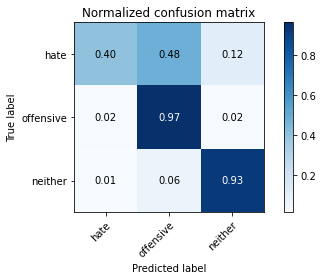
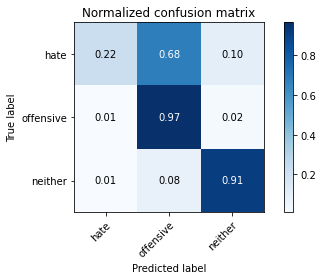
update model results

diff --git a/result.md b/result.md
@@ -1,19 +1,19 @@
 # Results for hate-speech-classification
 
 ## DistilBERT
-pretrained DistilBERT model trained for 4 epochs
+pretrained DistilBERT model trained for 5 epochs
 
 ![Confusion matrix_bert](images/distilbert.png)
 ![Confusion matrix_bert2](images/distilbert_norm.png)
     
-                precision    recall  f1-score   support
-        hate       	0.60      0.40      0.48       139
-    offensive      	0.95      0.97      0.96      1895
-     neither       	0.90      0.93      0.91       445
+                 precision    recall  f1-score   support
+        hate        0.53      0.22      0.31       139	
+    offensive       0.93      0.97      0.95      1895
+      neither       0.88      0.91      0.90       445
 
-    accuracy                            0.93      2479
-    macro avg       0.81      0.77      0.78      2479
-    weighted avg    0.92      0.93      0.92      2479
+    accuracy                            0.92      2479	
+    macro avg       0.78      0.70      0.72      2479
+    weighted avg    0.90      0.92      0.91      2479
 
 ## LSTM
 LSTM model trained for 10 epochs
